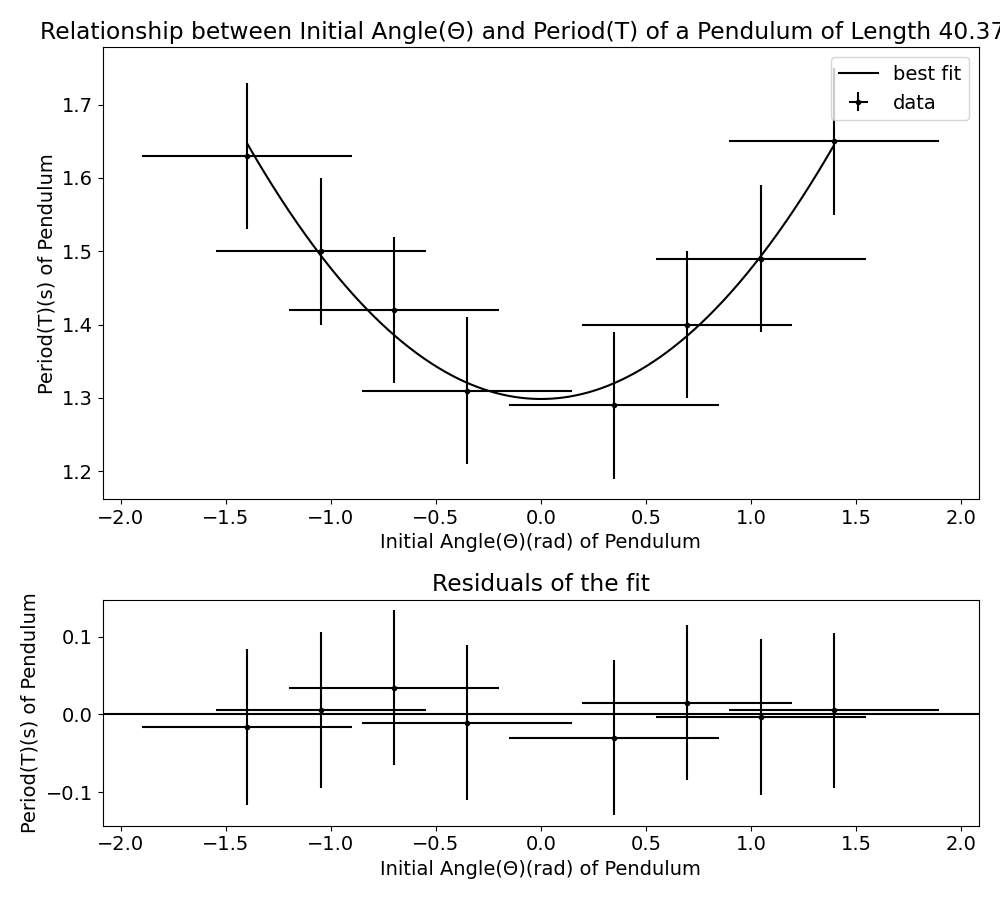
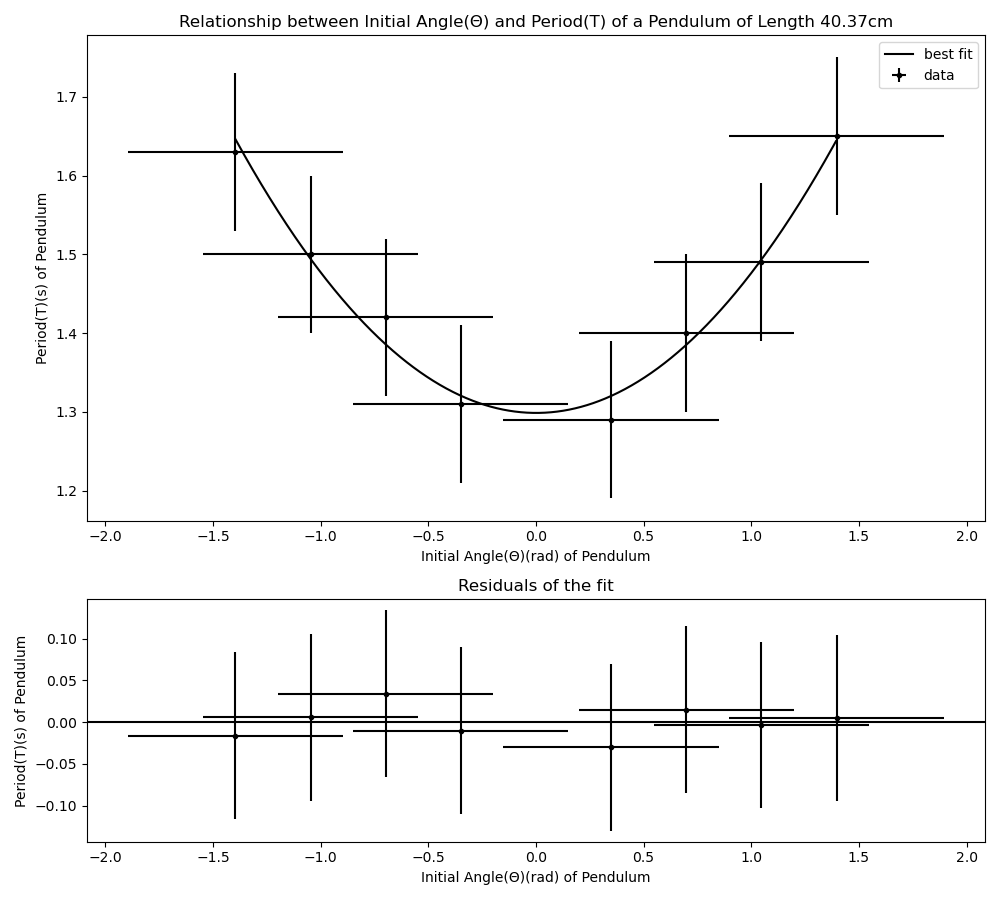
hm

diff --git a/fitting.py b/fitting.py
@@ -64,7 +64,7 @@ def main():
     my_func = quadratic
     # Change to whichever of the 5 functions you want to fit
 
-    plt.rcParams.update({'font.size': 14})
+    plt.rcParams.update({'font.size': 10})
     plt.rcParams['figure.figsize'] = 10, 9
     # Change the fontsize of the graphs to make it easier to read.
     # Also change the picture size, useful for the save-to-file option.
